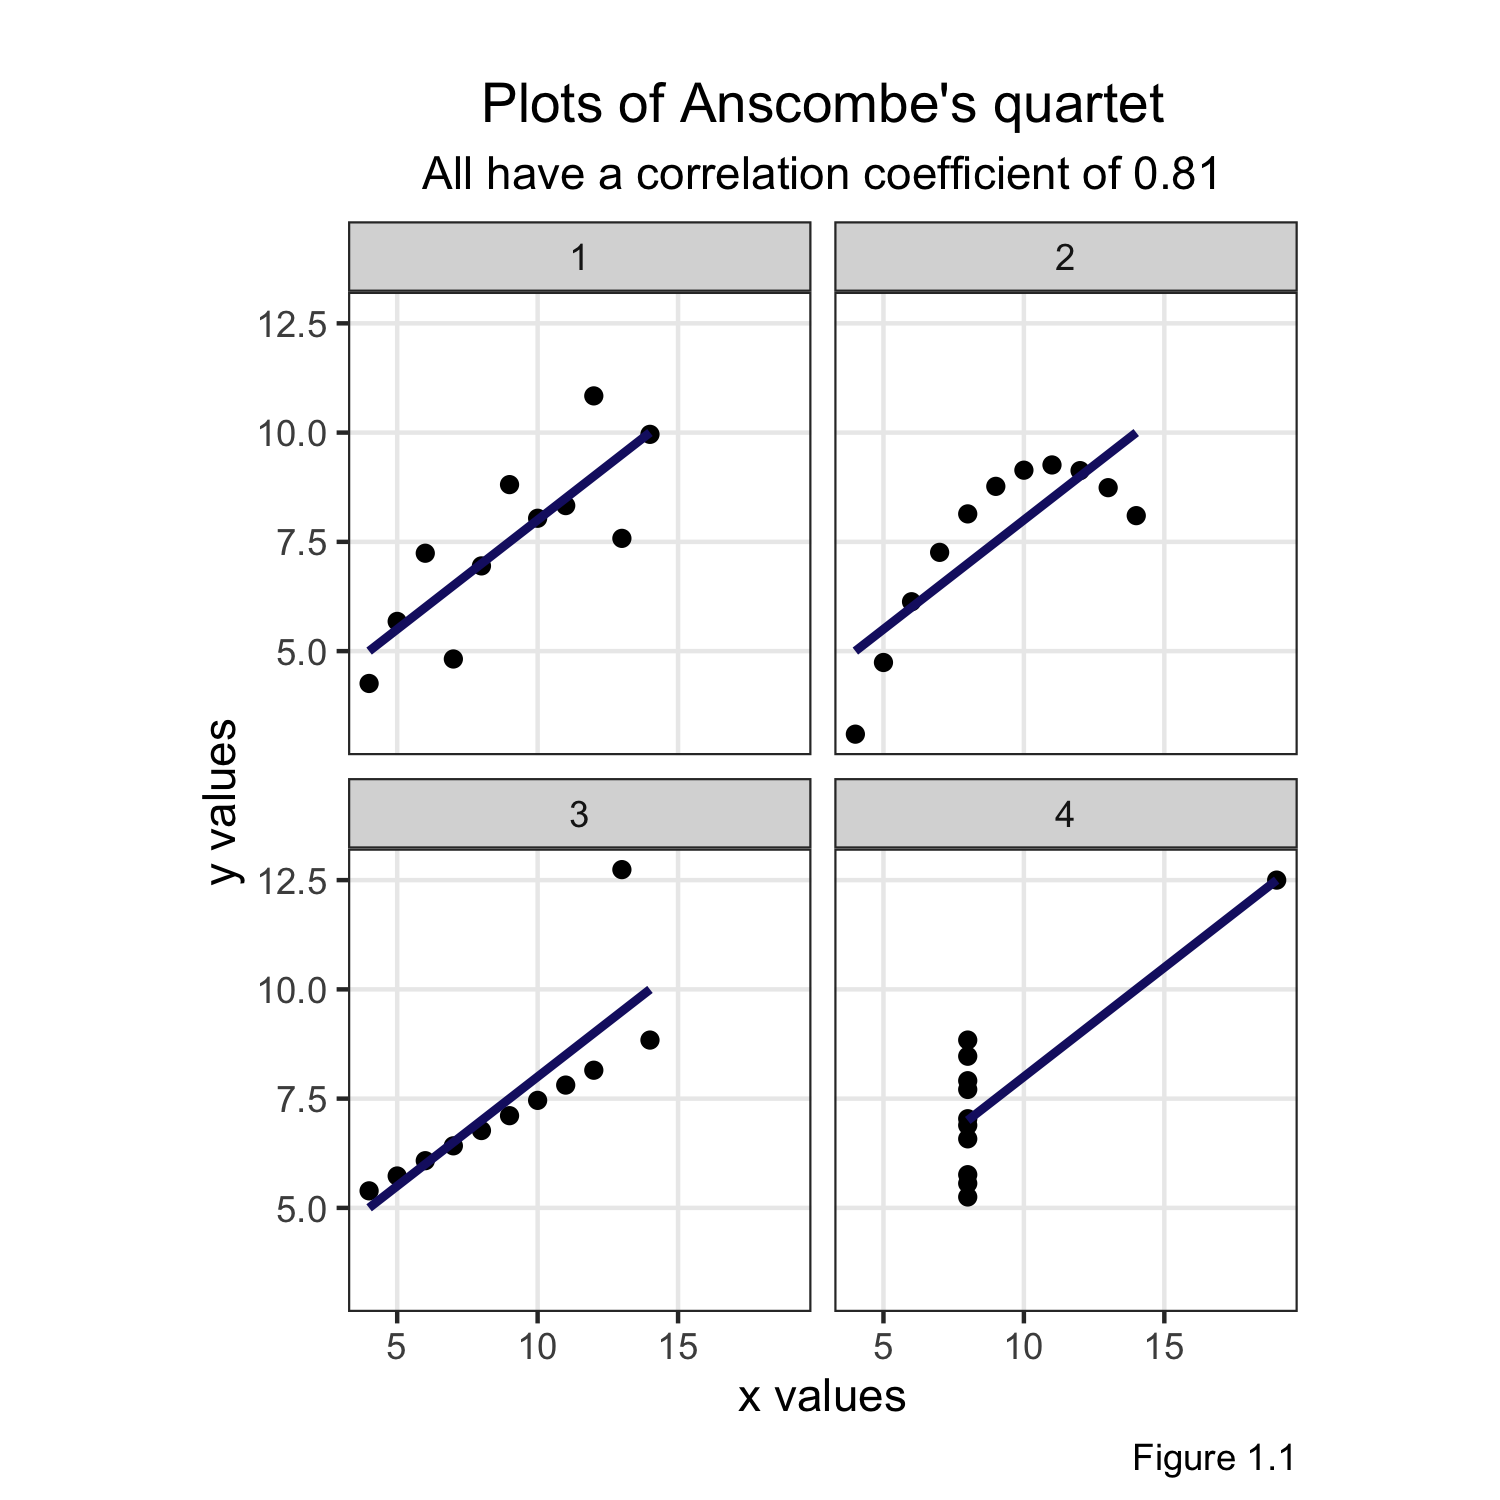
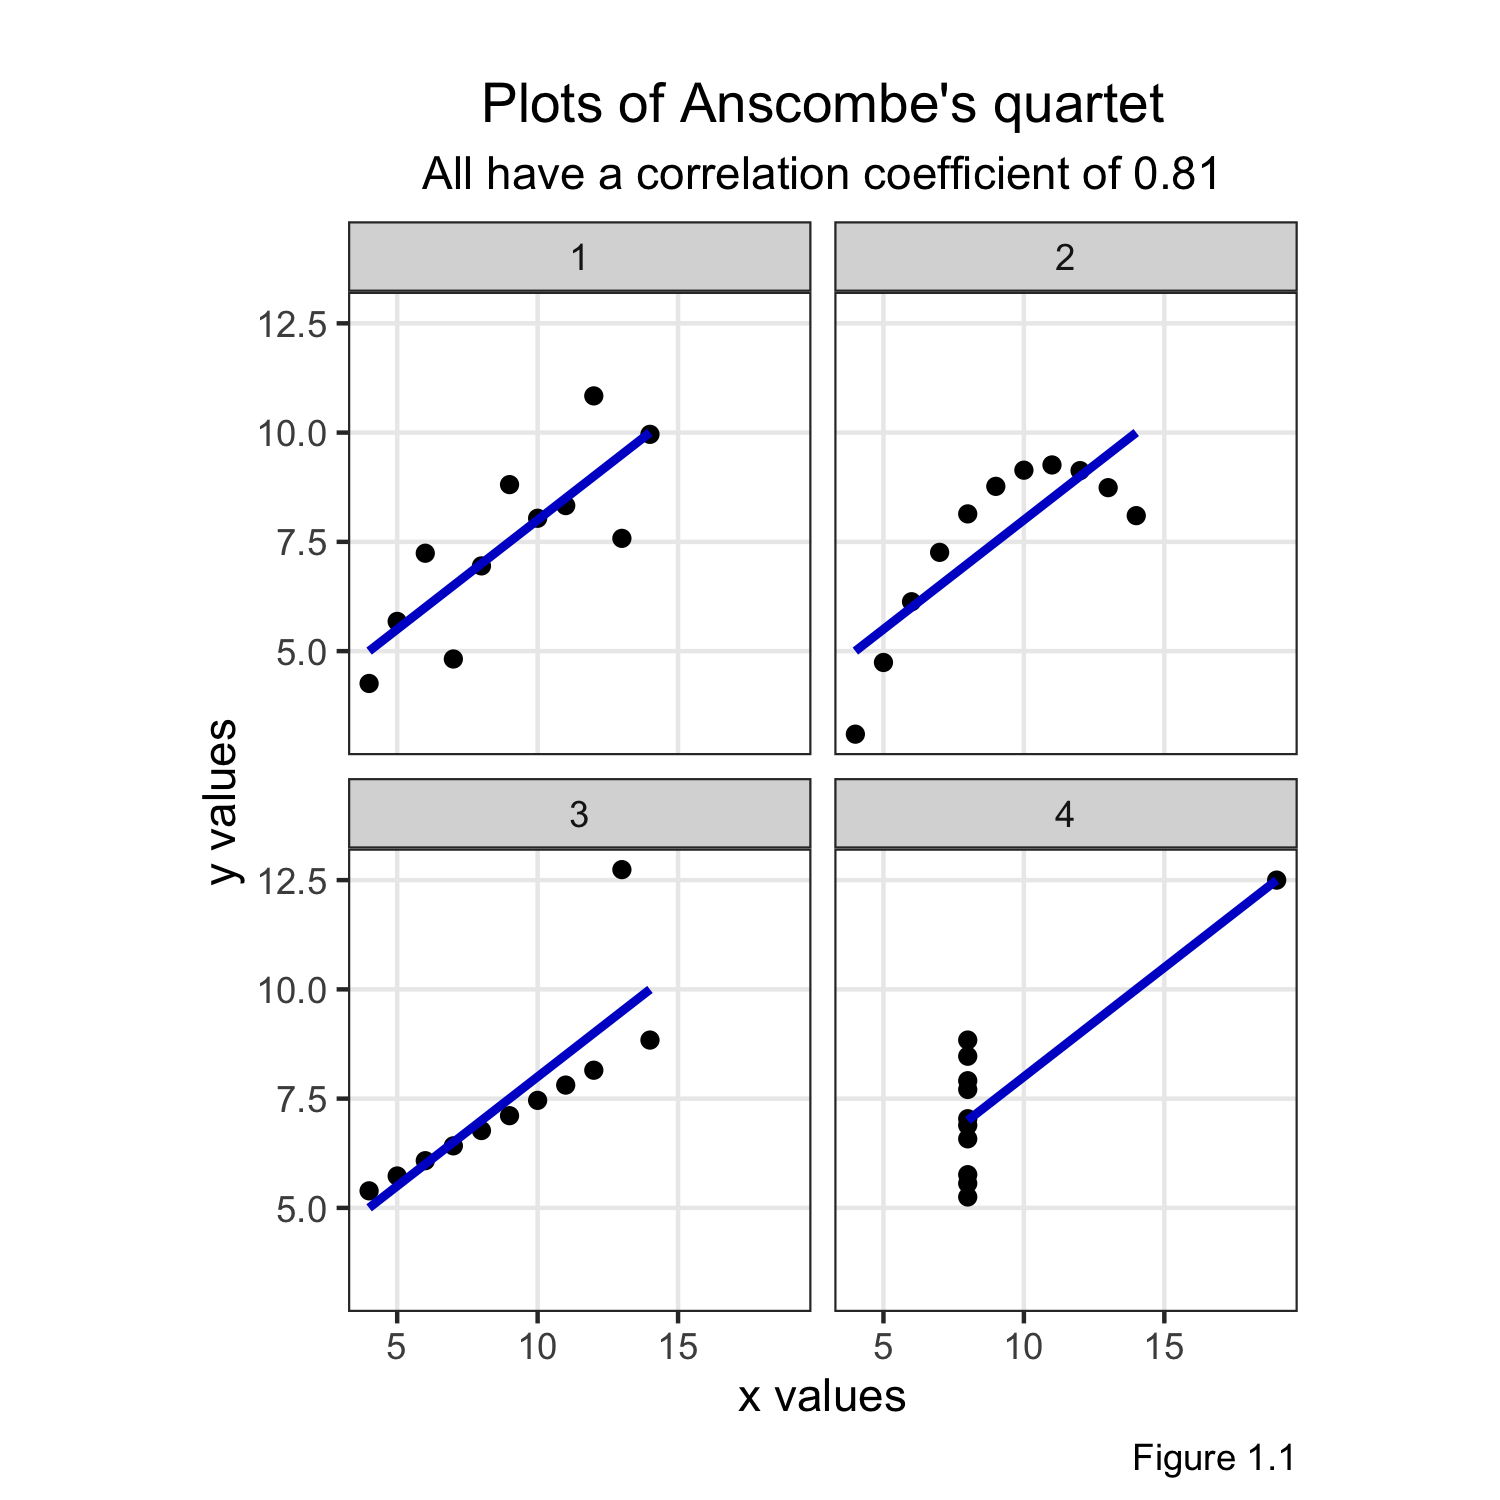
change colour, add info about anscombe data availability

diff --git a/code/1-look-at-data.md b/code/1-look-at-data.md
@@ -24,7 +24,7 @@ theme_update(
 ## Plots of Ancombe’s quartet
 
 ``` r
-# Inspect the data
+# Inspect the data (the raw data are readily available from R)
 kable(anscombe)
 ```
 
@@ -126,7 +126,7 @@ write_rds(anscombe, path = here("data", "anscombe_raw.rds"))
 anscombe_cleaned %>% 
   ggplot(aes(x = x, y = y)) +
     geom_point() +
-    geom_smooth(formula = "y ~ x", method = "lm", se = FALSE, colour = "midnightblue") +
+    geom_smooth(formula = "y ~ x", method = "lm", se = FALSE, colour = "blue3") +
     facet_wrap(~plot) +
     labs(x = "x values",
          y = "y values",
